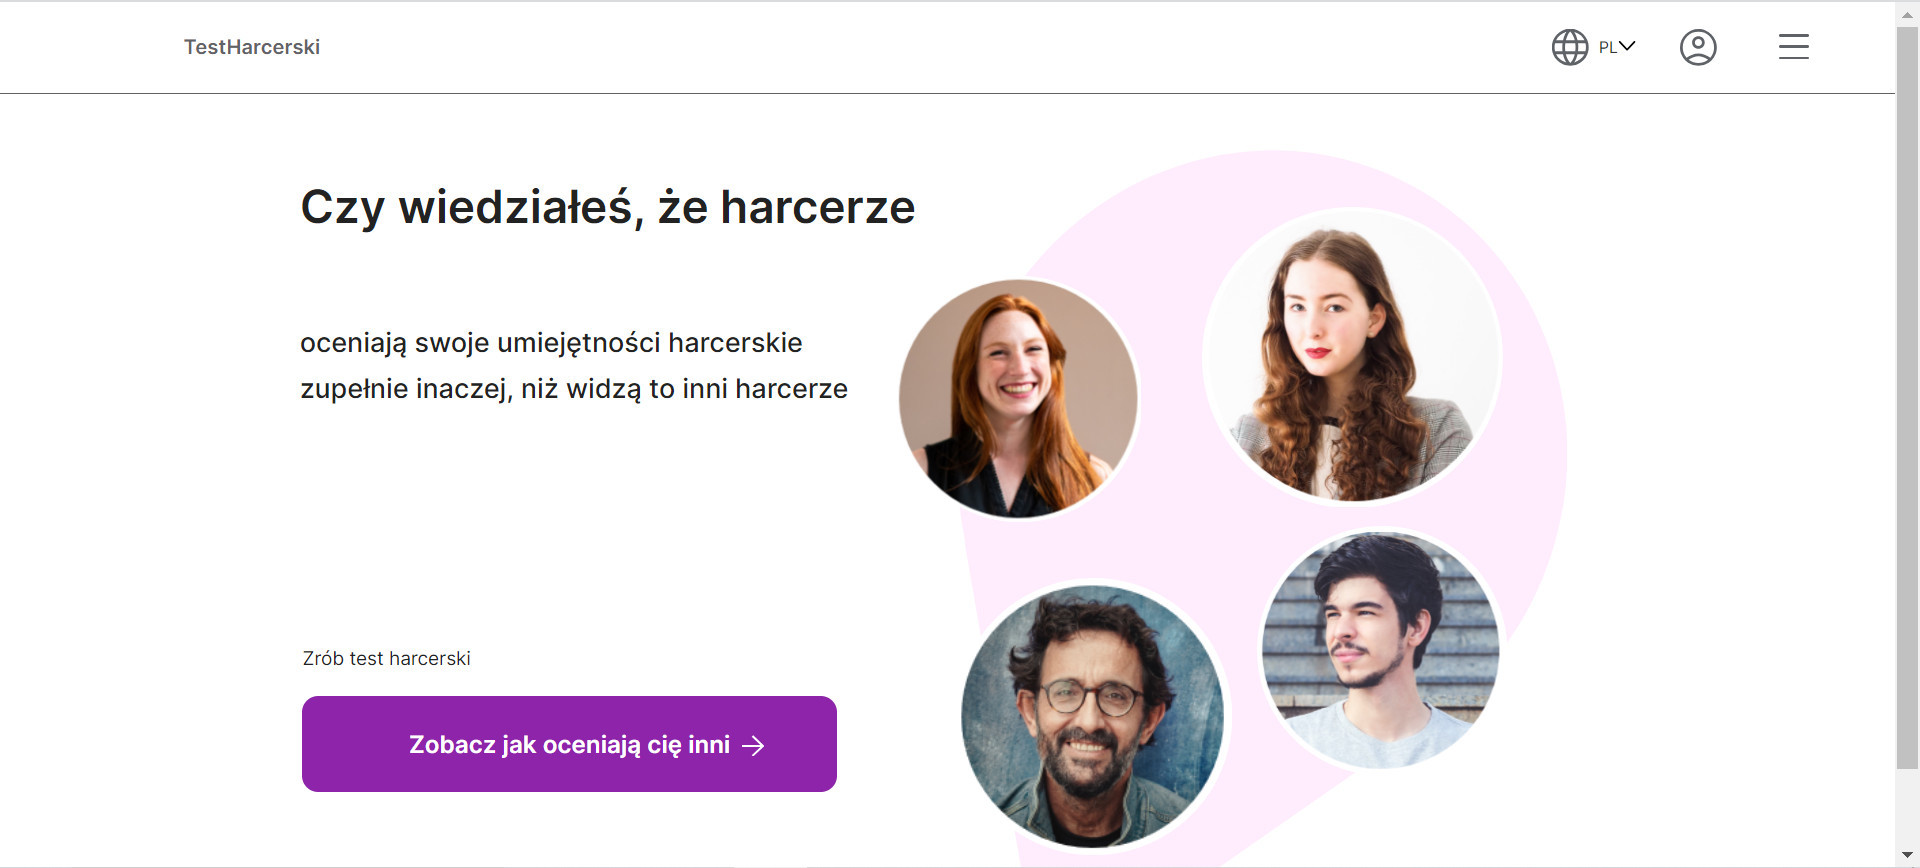
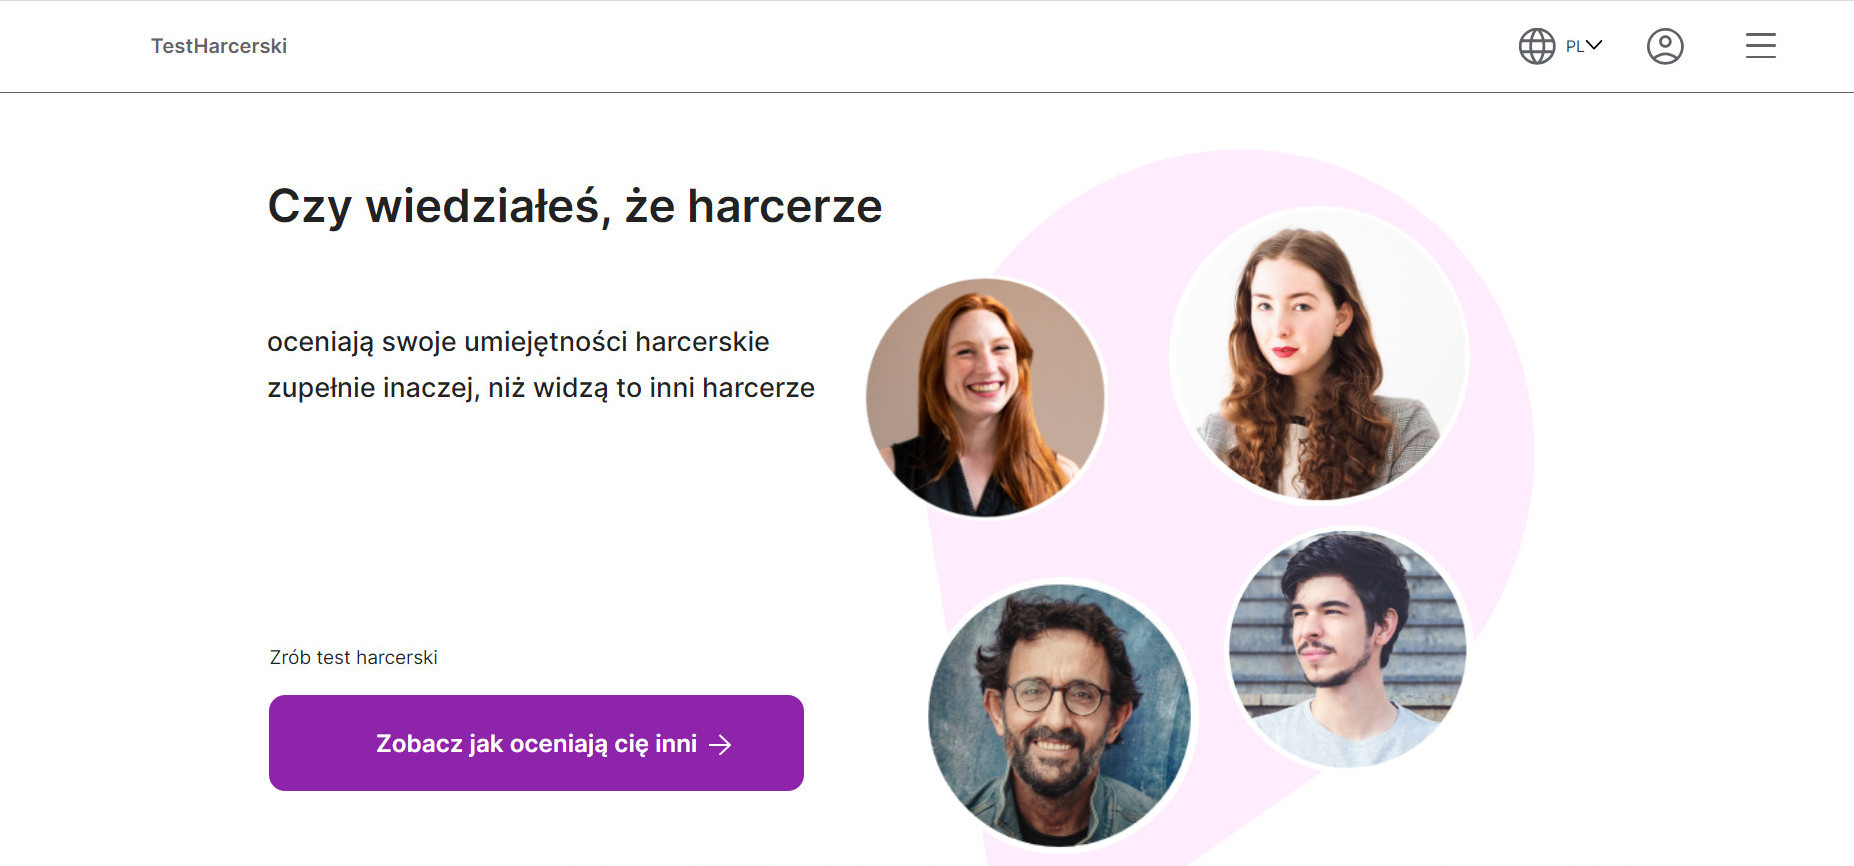
images

diff --git a/zuzannagaudnik/src/Sass/Sections/_scouttest.scss b/zuzannagaudnik/src/Sass/Sections/_scouttest.scss
@@ -34,7 +34,7 @@
         object-fit: cover;
         cursor: pointer;
         box-shadow: 8px 9px 10px $dark-brown;
-
+        border-radius: 20px;
       }
     &__photo {
 
@@ -60,6 +60,7 @@
     height: auto;
     object-fit: cover;
     cursor: pointer;
+    margin: 2rem;
   }
   
   

diff --git a/zuzannagaudnik/src/Sass/Sections/_menu.scss b/zuzannagaudnik/src/Sass/Sections/_menu.scss
@@ -61,6 +61,7 @@
         background-color: $color-white;
         transition: .3s all ease-in-out;
         align-items: end;
+        box-shadow: 4px 4px 4px;
 
         &:last-child {
           margin-bottom: 0;

diff --git a/zuzannagaudnik/src/Sass/Settings/_base.scss b/zuzannagaudnik/src/Sass/Settings/_base.scss
@@ -14,7 +14,6 @@ $font-base:'Montserrat', sans-serif;
     background-attachment: fixed;
     background-size: cover;
     width: 100%;
-    height: 100vh; 
     font-family: $font-base;
   }
     
